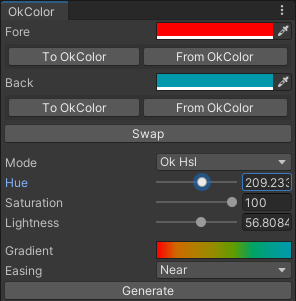
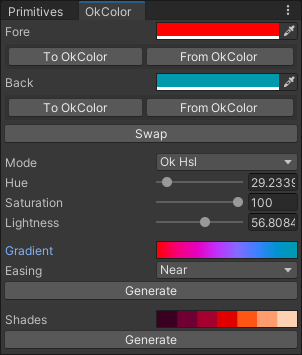
Shades swatches Added Hue Easing Far option.

diff --git a/OkColorMenu.cs b/OkColorMenu.cs
@@ -33,8 +33,16 @@ public class OkColorMenu : EditorWindow
     {
         Near = 0,
         Clockwise = 1,
-        CounterClockwise = 2
+        CounterClockwise = 2,
+        Far = 3
     }
+
+    public const int MaxKeyCount = 8;
+    public const double HueYellow = 0.304914533545892d;
+    public const double HueBlue = HueYellow + 0.5d;
+    public const double HueGreen = 146.0d / 360.0d;
+    public const double HueShadow = 291.0d / 360.0d;
+    public const double HueDay = 96.0d / 360.0d;
 
     static Mode mode = Mode.OkHsl;
     static HueEasing hueEasing = HueEasing.Near;
@@ -57,10 +65,43 @@ public class OkColorMenu : EditorWindow
     static Func<double, double, double, double, double> hueFunc = (a, b, c, d) => OkUnityBridge.LerpAngleNear (a, b, c, d);
 
     static Gradient gradient = new Gradient ( );
+    static Gradient shades = new Gradient ( );
 
     [MenuItem ("Window/OkColor")]
     static void Init ( )
     {
+        gradient.SetKeys (new GradientColorKey[ ]
+        {
+            new GradientColorKey (new Color (1.0f, 0.0f, 0.0f, 1.0f), 0.0f),
+                new GradientColorKey (new Color (0.9665875f, 0.0f, 0.471451f, 1.0f), 0.1428571f),
+                new GradientColorKey (new Color (0.9013672f, 0.0001537915f, 0.7556401f, 1.0f), 0.2857143f),
+                new GradientColorKey (new Color (0.7519007f, 0.1942044f, 0.9999999f, 1.0f), 0.4285715f),
+                new GradientColorKey (new Color (0.51731f, 0.4186569f, 1.0f, 1.0f), 0.5714286f),
+                new GradientColorKey (new Color (0.227677f, 0.5083964f, 1.0f, 1.0f), 0.7142857f),
+                new GradientColorKey (new Color (0.0f, 0.5792553f, 0.8038571f, 1.0f), 0.8571429f),
+                new GradientColorKey (new Color (0.0f, 0.6039216f, 0.6745098f, 1.0f), 1.0f)
+        }, new GradientAlphaKey[ ]
+        {
+            new GradientAlphaKey (1.0f, 0.0f),
+                new GradientAlphaKey (1.0f, 1.0f)
+        });
+
+        shades.SetKeys (new GradientColorKey[ ]
+        {
+            new GradientColorKey (new Color (0.2264238f, 0.0f, 0.127922f, 1.0f), 0.1428571f),
+                new GradientColorKey (new Color (0.4338861f, 0.0f, 0.1902658f, 1.0f), 0.2857143f),
+                new GradientColorKey (new Color (0.6498392f, 0.0f, 0.190087f, 1.0f), 0.4285714f),
+                new GradientColorKey (new Color (0.8775765f, 0.0f, 0.0f, 1.0f), 0.5714286f),
+                new GradientColorKey (new Color (1.0f, 0.3361318f, 0.0861003f, 1.0f), 0.7142857f),
+                new GradientColorKey (new Color (1.0f, 0.6122944f, 0.4257437f, 1.0f), 0.8571429f),
+                new GradientColorKey (new Color (1.0f, 0.8188902f, 0.7030936f, 1.0f), 1.0f)
+        }, new GradientAlphaKey[ ]
+        {
+            new GradientAlphaKey (1.0f, 0.0f),
+                new GradientAlphaKey (1.0f, 1.0f)
+        });
+        shades.mode = GradientMode.Fixed;
+
         OkColorMenu window = (OkColorMenu) EditorWindow.GetWindow (
             t: typeof (OkColorMenu),
             utility: false,
@@ -207,6 +248,11 @@ public class OkColorMenu : EditorWindow
                         hueFunc = (a, b, c, d) => OkUnityBridge.LerpAngleCcw (a, b, c, d);
                     }
                     break;
+                case HueEasing.Far:
+                    {
+                        hueFunc = (a, b, c, d) => OkUnityBridge.LerpAngleFar (a, b, c, d);
+                    }
+                    break;
                 case HueEasing.Near:
                 default:
                     {
@@ -218,11 +264,9 @@ public class OkColorMenu : EditorWindow
 
         if (GUILayout.Button ("Generate"))
         {
-            // Max No. of keys allowed by Unity gradients is 8.
-            int count = 8;
-            float toFac = 1.0f / (count - 1.0f);
+            float toFac = 1.0f / (MaxKeyCount - 1.0f);
 
-            GradientColorKey[ ] uckeys = new GradientColorKey[count];
+            GradientColorKey[ ] uckeys = new GradientColorKey[MaxKeyCount];
             (double r, double g, double b) aRgb = (r: aColor.r, g: aColor.g, b: aColor.b);
             (double r, double g, double b) bRgb = (r: bColor.r, g: bColor.g, b: bColor.b);
             (double L, double a, double b) aLab = OkColor.SrgbToOkLab (aRgb);
@@ -243,7 +287,7 @@ public class OkColorMenu : EditorWindow
                     {
                         (double h, double s, double l) aHsl = OkColor.OkLabToOkHsl (aLab);
                         (double h, double s, double l) bHsl = OkColor.OkLabToOkHsl (bLab);
-                        for (int i = 0; i < count; ++i)
+                        for (int i = 0; i < MaxKeyCount; ++i)
                         {
                             float fac = i * toFac;
                             double ch = hueFunc (aHsl.h, bHsl.h, fac, 1.0d);
@@ -261,14 +305,15 @@ public class OkColorMenu : EditorWindow
                     {
                         (double h, double s, double v) aHsv = OkColor.OkLabToOkHsv (aLab);
                         (double h, double s, double v) bHsv = OkColor.OkLabToOkHsv (bLab);
-                        for (int i = 0; i < count; ++i)
+                        for (int i = 0; i < MaxKeyCount; ++i)
                         {
                             float fac = i * toFac;
                             double ch = hueFunc (aHsv.h, bHsv.h, fac, 1.0d);
                             double cs = OkUnityBridge.Lerp (aHsv.s, bHsv.s, fac);
                             double cv = OkUnityBridge.Lerp (aHsv.v, bHsv.v, fac);
                             (double h, double s, double v) cHsv = (h: ch, s: cs, v: cv);
-                            (double r, double g, double b) cRgb = OkColor.OkHsvToSrgb (cHsv);
+                            (double L, double a, double b) cLab = OkColor.OkHsvToOkLab (cHsv);
+                            (double r, double g, double b) cRgb = OkColor.OkLabToSrgb (cLab);
                             Color cColor = OkUnityBridge.RgbToColor (cRgb);
                             uckeys[i] = new GradientColorKey (cColor, fac);
                         }
@@ -277,7 +322,7 @@ public class OkColorMenu : EditorWindow
                 case Mode.OkLab:
                 default:
                     {
-                        for (int i = 0; i < count; ++i)
+                        for (int i = 0; i < MaxKeyCount; ++i)
                         {
                             float fac = i * toFac;
                             (double L, double a, double b) cLab = OkUnityBridge.LerpLab (aLab, bLab, fac);
@@ -298,13 +343,71 @@ public class OkColorMenu : EditorWindow
             gradient.SetKeys (uckeys, uakeys);
             gradient.mode = GradientMode.Blend;
         }
+
+        EditorGUILayout.Space ( );
+        shades = EditorGUILayout.GradientField (
+            label: new GUIContent ("Shades"),
+            value: shades,
+            hdr: false);
+        if (GUILayout.Button ("Generate"))
+        {
+            (double r, double g, double b) aRgb = (r: aColor.r, g: aColor.g, b: aColor.b);
+            (double L, double a, double b) aLab = OkColor.SrgbToOkLab (aRgb);
+            (double h, double s, double l) aHsl = OkColor.OkLabToOkHsl (aLab);
+
+            double sat = aHsl.s;
+
+            double hue = aHsl.h;
+            double hueIncr = 0.125d;
+            double[ ] hues = new double[ ]
+            {
+                OkUnityBridge.LerpAngleNear (hue, HueShadow, hueIncr * 3, 1.0d),
+                OkUnityBridge.LerpAngleNear (hue, HueShadow, hueIncr * 2, 1.0d),
+                OkUnityBridge.LerpAngleNear (hue, HueShadow, hueIncr, 1.0d),
+                hue,
+                OkUnityBridge.LerpAngleNear (hue, HueDay, hueIncr, 1.0d),
+                OkUnityBridge.LerpAngleNear (hue, HueDay, hueIncr * 2, 1.0d),
+                OkUnityBridge.LerpAngleNear (hue, HueDay, hueIncr * 3, 1.0d),
+            };
+
+            double lightIncr = 0.125d;
+            double[ ] lights = new double[ ]
+            {
+                0.5f - lightIncr * 3,
+                0.5f - lightIncr * 2,
+                0.5f - lightIncr,
+                0.5f,
+                0.5f + lightIncr,
+                0.5f + lightIncr * 2,
+                0.5f + lightIncr * 3,
+            };
+
+            GradientColorKey[ ] uckeys = new GradientColorKey[7];
+            for (int i = 0; i < 7; ++i)
+            {
+                (double h, double s, double l) cHsl = (h: hues[i], s: sat, l: lights[i]);
+                (double L, double a, double b) cLab = OkColor.OkHslToOkLab (cHsl);
+                (double r, double g, double b) cRgb = OkColor.OkLabToSrgb (cLab);
+                Color cColor = OkUnityBridge.RgbToColor (cRgb);
+                uckeys[i] = new GradientColorKey (cColor, (i + 1.0f) / 7.0f);
+            }
+
+            GradientAlphaKey[ ] uakeys = new GradientAlphaKey[ ]
+            {
+                new GradientAlphaKey (aColor.a, 0.0f),
+                new GradientAlphaKey (aColor.a, 1.0f)
+            };
+
+            shades.SetKeys (uckeys, uakeys);
+            shades.mode = GradientMode.Fixed;
+        }
     }
 
     static void GetColor (in Color c)
     {
         (double r, double g, double b) rgb = (r: c.r, g: c.g, b: c.b);
-        (double l, double a, double b) lab = OkColor.SrgbToOkLab (rgb);
-        lOkLab = (float) (lab.l * 100.0d);
+        (double L, double a, double b) lab = OkColor.SrgbToOkLab (rgb);
+        lOkLab = (float) (lab.L * 100.0d);
         aOkLab = (float) (lab.a * 100.0d);
         bOkLab = (float) (lab.b * 100.0d);
 
@@ -326,30 +429,27 @@ public class OkColorMenu : EditorWindow
         {
             case Mode.OkLab:
                 {
-                    (double l, double a, double b) lab = (
-                        l: lOkLab * 0.01d,
+                    rgb = OkColor.OkLabToSrgb ((
+                        L: lOkLab * 0.01d,
                         a: aOkLab * 0.01d,
-                        b: bOkLab * 0.01d);
-                    rgb = OkColor.OkLabToSrgb (lab);
+                        b: bOkLab * 0.01d));
                 }
                 break;
             case Mode.OkHsv:
                 {
-                    (double h, double s, double v) hsv = (
+                    rgb = OkColor.OkHsvToSrgb ((
                         h: hOkHsv / 360.0d,
                         s: sOkHsv * 0.01d,
-                        v: vOkHsv * 0.01d);
-                    rgb = OkColor.OkHsvToSrgb (hsv);
+                        v: vOkHsv * 0.01d));
                 }
                 break;
             case Mode.OkHsl:
             default:
                 {
-                    (double h, double s, double l) hsl = (
+                    rgb = OkColor.OkHslToSrgb ((
                         h: hOkHsl / 360.0d,
                         s: sOkHsl * 0.01d,
-                        l: lOkHsl * 0.01d);
-                    rgb = OkColor.OkHslToSrgb (hsl);
+                        l: lOkHsl * 0.01d));
                 }
                 break;
         }

diff --git a/OkUnityBridge.cs b/OkUnityBridge.cs
@@ -26,9 +26,37 @@ public static class OkUnityBridge
         return Math.Min (Math.Max (a, lb), ub);
     }
 
+    public static double DistAngleUnsigned (in double origin, in double dest, in double range = 1.0d)
+    {
+        double halfRange = range * 0.5d;
+        return halfRange - Math.Abs (Math.Abs (RemFloor (dest, range) - RemFloor (origin, range)) - halfRange);
+    }
+
     public static double Lerp (in double a, in double b, in double t = 0.5d)
     {
         return (1.0d - t) * a + t * b;
+    }
+
+    public static double LerpAngleFar (in double origin, in double dest, in double t = 0.5d, in double range = 1.0d)
+    {
+        double halfRange = range * 0.5d;
+        double o = RemFloor (origin, range);
+        double d = RemFloor (dest, range);
+        double diff = d - o;
+        double u = 1.0d - t;
+
+        if (diff == 0.0d || (o < d && diff < halfRange))
+        {
+            return RemFloor (u * (o + range) + t * d, range);
+        }
+        else if (o > d && diff > -halfRange)
+        {
+            return RemFloor (u * o + t * (d + range), range);
+        }
+        else
+        {
+            return u * o + t * d;
+        }
     }
 
     public static double LerpAngleNear (in double origin, in double dest, in double t = 0.5d, in double range = 1.0d)
@@ -99,14 +127,10 @@ public static class OkUnityBridge
     public static (double L, double a, double b) LerpLab (in (double L, double a, double b) a, in (double L, double a, double b) b,
         double t = 0.5d)
     {
-        double cl = OkUnityBridge.Lerp (a.L, b.L, t);
-        double ca = OkUnityBridge.Lerp (a.a, b.a, t);
-        double cb = OkUnityBridge.Lerp (a.b, b.b, t);
-
         return (
-            L: OkUnityBridge.Lerp (a.L, b.L, t),
-            a : OkUnityBridge.Lerp (a.a, b.a, t),
-            b : OkUnityBridge.Lerp (a.b, b.b, t));
+            L: Lerp (a.L, b.L, t),
+            a : Lerp (a.a, b.a, t),
+            b : Lerp (a.b, b.b, t));
     }
 
     public static double RemFloor (in double a, in double b)

diff --git a/README.md b/README.md
@@ -16,11 +16,11 @@ The `Generate` button updates a Unity `Gradient` according to the `Fore` and `Ba
 
 The hue for grays is left at zero to follow convention. This will cause problems when, for example, creating a gradient from a gray to a saturated color or when sorting colors by hue. For that reason, if either `Fore` or `Back` colors are gray, then gradient generation will default `OkLab`.
 
-Beware that discontinuities develop at high saturation, particularly around darker blues, such as #0306FF (in OkHsl, `264.2793` hue, `100` saturation, `36.92266` lightness).
+Beware that discontinuities develop at high saturation, particularly around darker blues, such as `#0306FF` (in OkHsl, `264.2793` hue, `100` saturation, `36.92266` lightness).
 
 ## Changes
 
-The original code has been modified to handle edge cases for black, white and grays. There are some measures to prevent the passing of invalid values to division or square-root. The C# implementation uses double-, rather than single-, precision (`double`s instead of `float`s). Furthermore, it uses tuples to avoid specialized `struct`s.
+The original code has been modified to handle edge cases for black, white and grays. There are some measures to prevent the passing of invalid values to division or square-root. The C# implementation uses double-, rather than single-, precision (`double`s instead of `float`s). Furthermore, it uses tuples to avoid specialized `struct`s. Unused methods have been removed.
 
 ## License
 
